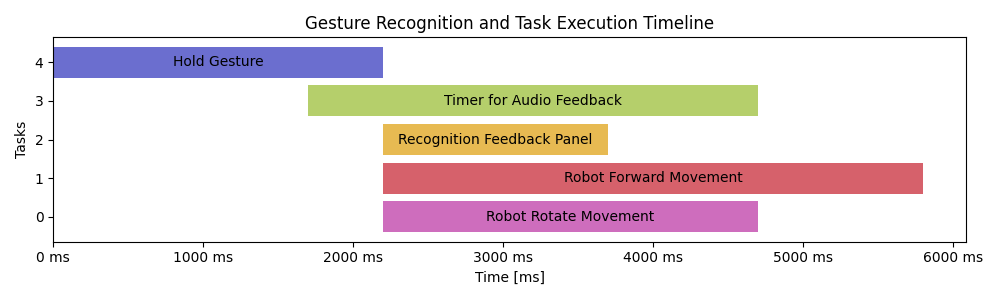
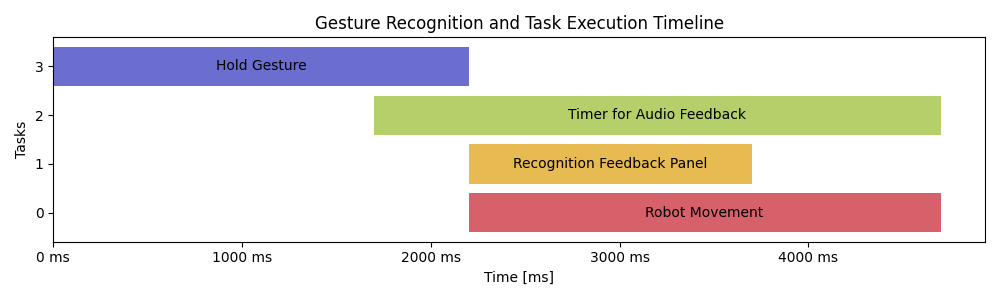
Good timelines speech gesture

diff --git a/catkin_ws/src/spot_fsm_control/src/fsm_node.py b/catkin_ws/src/spot_fsm_control/src/fsm_node.py
@@ -147,13 +147,18 @@ class FsmNode:
             writer = csv.writer(f)
             writer.writerow([timestamp, data.data, percentage])
             
-        if not self.last_execution_time or time.time() - self.last_execution_time > self.wait_time_for_execution:
-            self.last_execution_time = time.time()
-            self.pub_status.publish("running")
-            try_state_send(self.sm, data.data)
-            print(f"\nI heard: {data.data}")
-        else:
-            print(f"\nI heard: {data.data} but I am waiting for the execution")
+        self.last_execution_time = time.time()
+        self.pub_status.publish("running")
+        try_state_send(self.sm, data.data)
+        print(f"\nI heard: {data.data}")
+            
+        # if not self.last_execution_time or time.time() - self.last_execution_time > self.wait_time_for_execution:
+        #     self.last_execution_time = time.time()
+        #     self.pub_status.publish("running")
+        #     try_state_send(self.sm, data.data)
+        #     print(f"\nI heard: {data.data}")
+        # else:
+        #     print(f"\nI heard: {data.data} but I am waiting for the execution")
 
     def callback_action_dummy(self, data):
         if not self.last_execution_time or time.time() - self.last_execution_time > self.wait_time_for_execution:
@@ -351,7 +356,7 @@ class FsmNode:
         odometry_data = self.get_robot_odom_pose()
         row = [timestamp]
         row.extend([list(odometry_data[:3])])
-        row.extend([list(odometry_data[3:6])])
+        row.extend([list(odometry_data[3:6])])  
         row.extend([list(odometry_vision_data[:3])])
         row.extend([list(odometry_vision_data[3:6])])
         
@@ -414,6 +419,8 @@ if __name__ == "__main__":
             fsm = FsmNode(robot=robotInterface, robot_sdk=robot, timestamp=timestamp, participant=participant, condition=condition)
             vss = VideoStreamSaver(robotInterface.image_client, participant, condition, timestamp)
             fsm.run(vss)
+            
+            robotInterface.sit_down()
 
         for out in vss.video_writers:
             out.release()

diff --git a/test_scripts/timeline_speech_gestures.py b/test_scripts/timeline_speech_gestures.py
@@ -82,6 +82,7 @@ plt.title("Speech Recognition and Task Execution Timeline")
 plt.gca().xaxis.set_major_formatter(plt.FuncFormatter(lambda x, _: f'{int(x)} ms'))
 
 plt.tight_layout()
+plt.savefig("C:\dev\SpotDockerImage\\test_scripts/speech_timeline.png")
 plt.show()
 
 
@@ -114,4 +115,5 @@ plt.title("Gesture Recognition and Task Execution Timeline")
 plt.gca().xaxis.set_major_formatter(plt.FuncFormatter(lambda x, _: f'{int(x)} ms'))
 
 plt.tight_layout()
+plt.savefig("C:\dev\SpotDockerImage\\test_scripts/gesture_timeline.png")
 plt.show()
